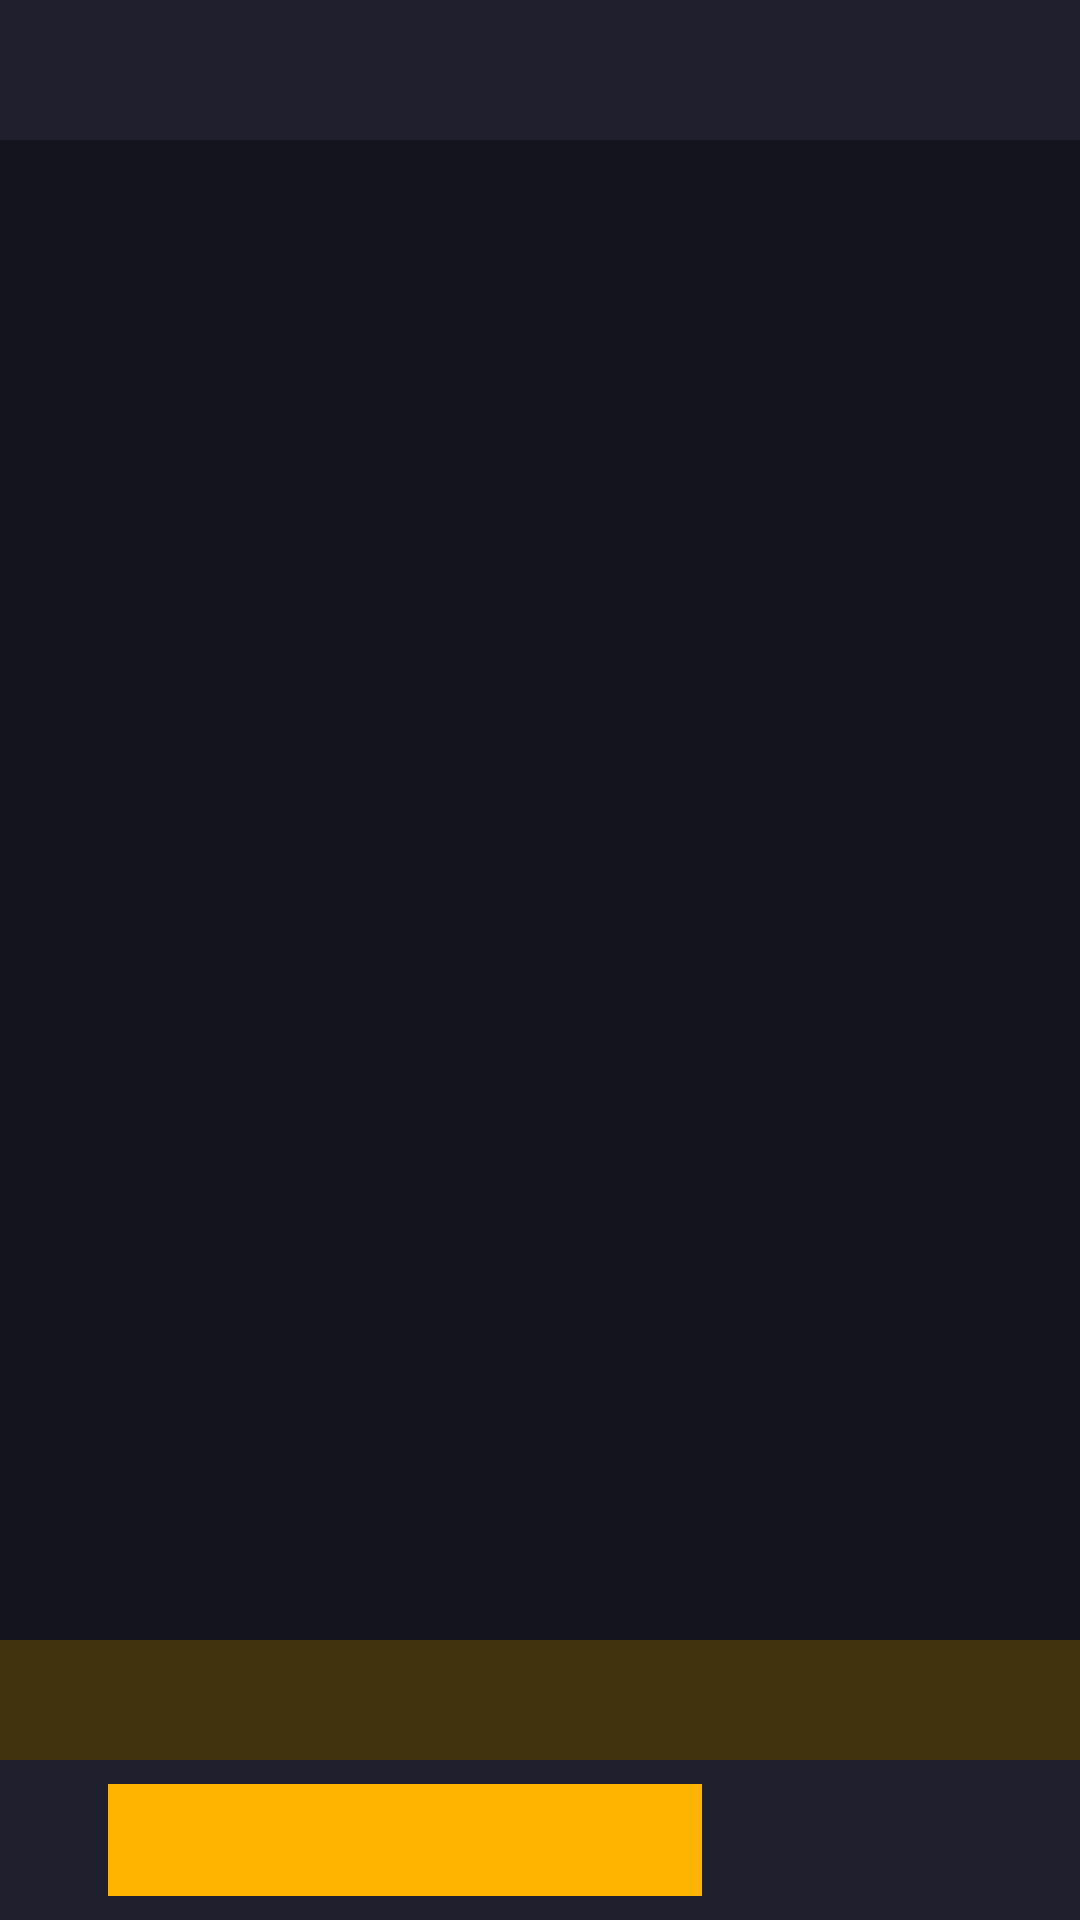
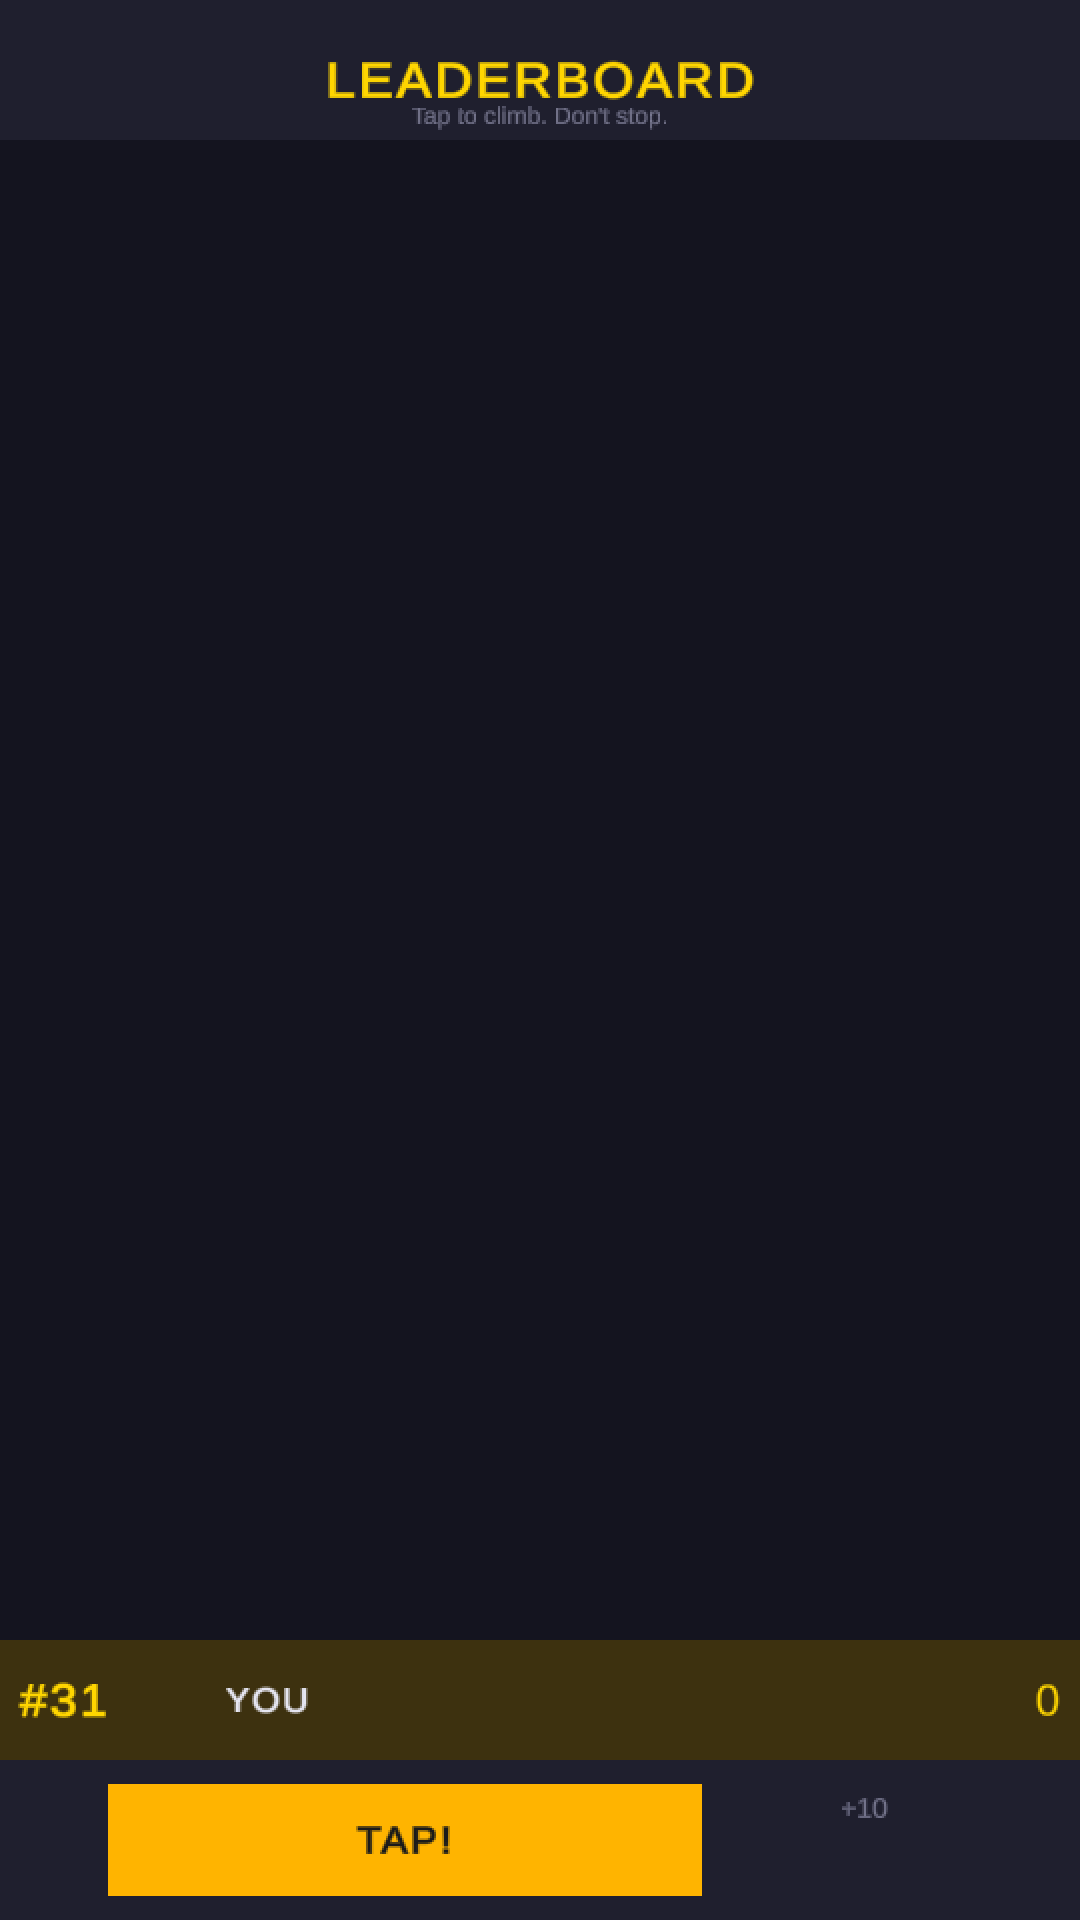
Fix TMP font loading - explicitly load LiberationSans SDF

diff --git a/Assets/Scripts/Setup/SceneBuilder.cs b/Assets/Scripts/Setup/SceneBuilder.cs
@@ -365,6 +365,9 @@ namespace LeaderboardGame
 
             var rect = obj.AddComponent<RectTransform>();
             var tmp = obj.AddComponent<TextMeshProUGUI>();
+            // Explicitly load default TMP font from Resources
+            var font = Resources.Load<TMP_FontAsset>("Fonts & Materials/LiberationSans SDF");
+            if (font != null) tmp.font = font;
             tmp.text = content;
             tmp.fontSize = size;
             tmp.alignment = alignment;
